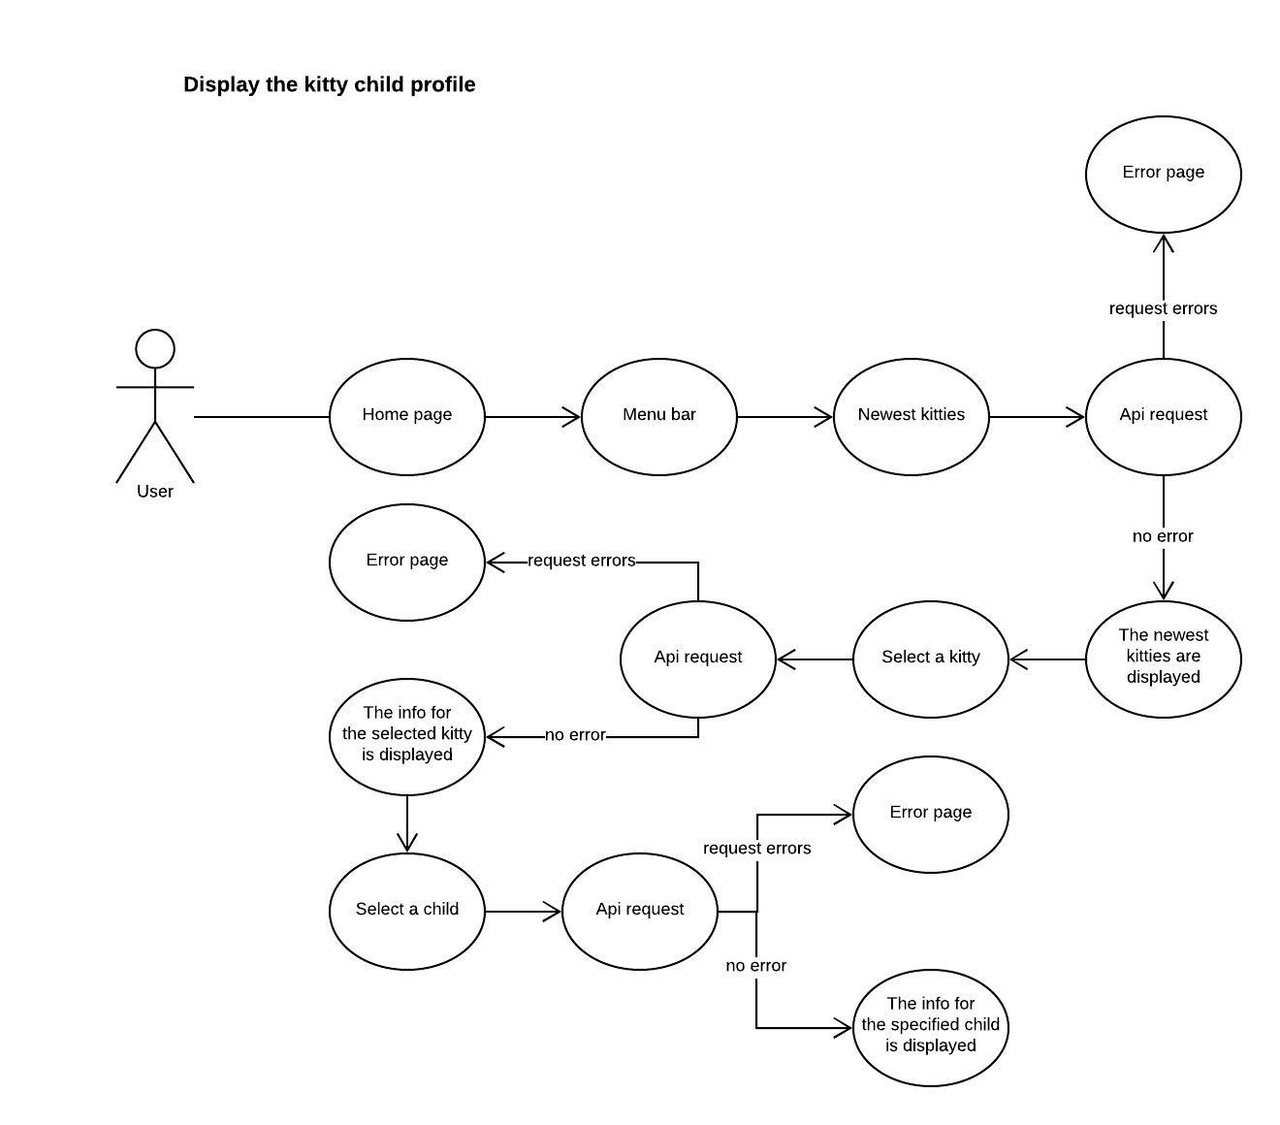
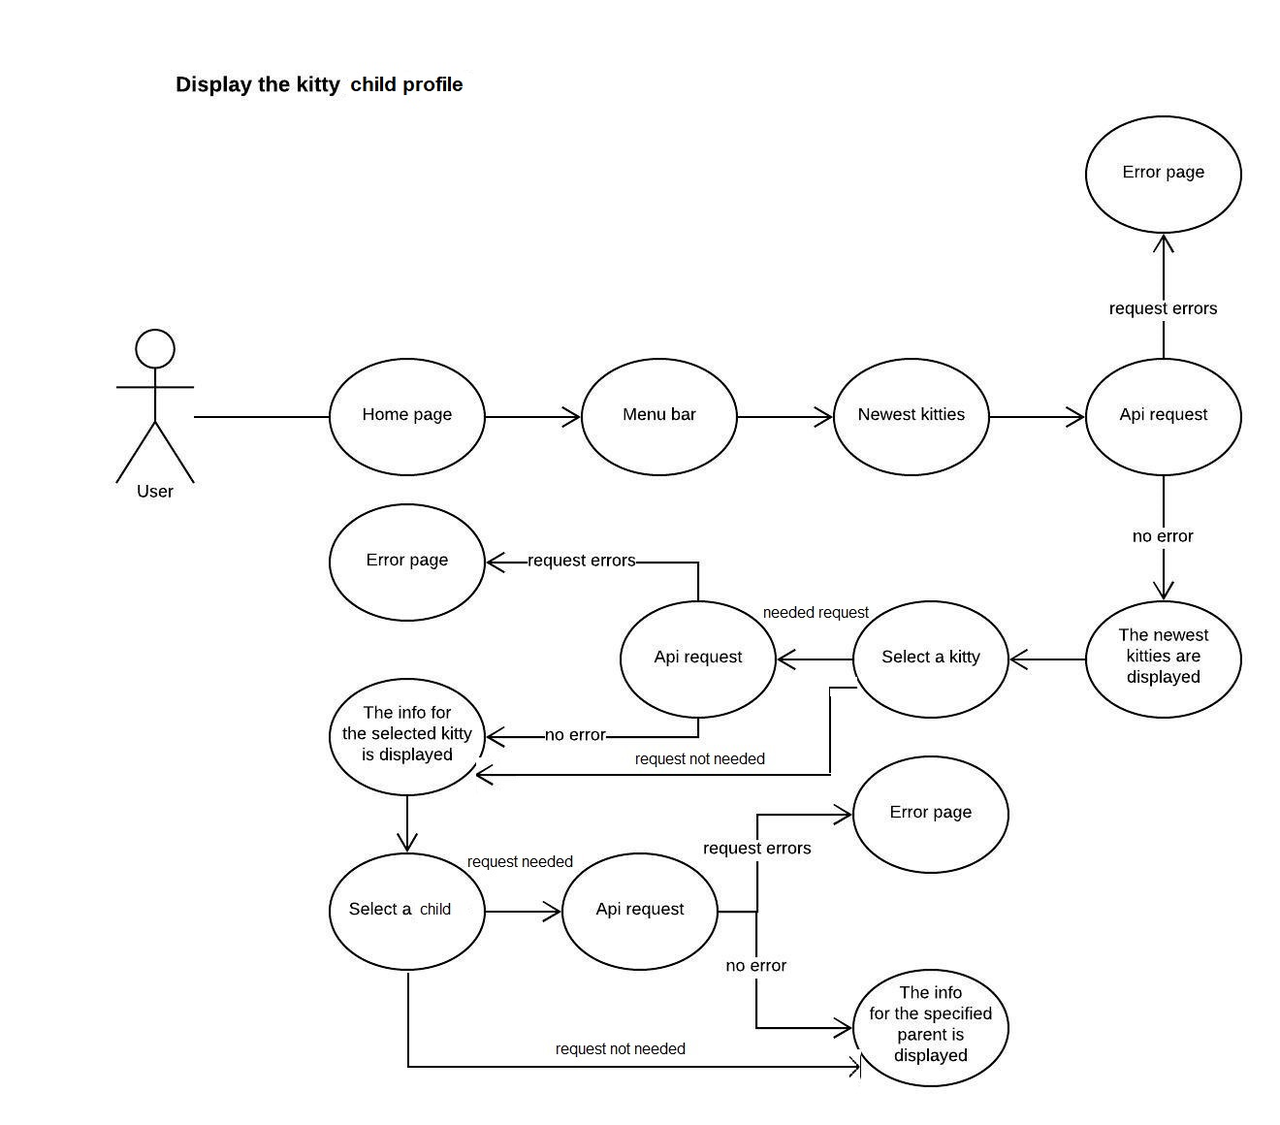
updated diagrams + scholarly update

diff --git a/Doc/index.html b/Doc/index.html
@@ -30,29 +30,34 @@
     <section id="introduction" role="doc-introduction">
         <h2>Introducere</h2>
         <p style="font-size:large;">
-            Aceasta aplicatie web ofera oportunitatea de a putea vedea evolutia pisicilor digitale cum ar fi cei mai importanti proprietari, cele mai noi pisici, profilul unei pisici, profilul unui proprietar si arborele genealogic al unei pisici.
+            Aceasta aplicatie web ofera oportunitatea de a putea vizualiza evolutia pisicilor digitale cum ar fi cei mai importanti proprietari,
+            cele mai noi pisici, profilul unei pisici, profilul unui proprietar si arborele genealogic al unei pisici.
         </p>
     </section>
 
     <section id="user-type">
         <h2>Tipuri de utilizatori</h2>
         <p property="schema:type">
-            <p>Un singur tip utilizator, ce ii include pe toti, deoarece aplicatia nu foloseste sisteme de log-in/sign-in, si nici nu are nevoie de administrator pentru ca nu exista o baza de date.</p>
-            </p>
+            <p>Un singur tip utilizator, ce ii include pe toti, deoarece aplicatia nu foloseste sisteme de log-in/sign-in,
+                si nici nu are o baza de date ce trebuie gestionata.</p>
+        </p>
     </section>
 
- <section id="concepts-on-design">
-        <h2 >Arhitectura generala</h2>
+    <section id="concepts-on-design">
+        <h2 property="schema:blueprint">Arhitectura generala</h2>
         <ul>
             <p style="font-size:large;" property="schema:description">
-            Aplicatia este de tip SPA, si consta in faptul ca pagina curenta este suprascrisa dinamic, nu este incarcata o noua pagina de fiecare data.
+                Structura SPA
             </p>
             <img src="C:\Users\Bandro\Documents\GitHub\e4k\Application arhitecture\SPA.jpeg" height="600" width="800">
-            <p property="schema:description">Avem pagina principala, ce va primi datele ce trebuie afisate in cadrul ei.Ea este compusa din navbar, content si footer.
-            Content este partea paginii ce variaza in functie de navigarile utilizatorului.Pe baza rutelor accesate paginile corespunzatoare vor fi incarcate in pagina pricipala, iar ele la randul lor is vor face requesturile necesare pentru obtinerea de date.
+            <p property="schema:description">Avem pagina principala, ce va primi datele ce trebuie afisate in cadrul ei.Ea
+                este compusa din navbar, content si footer. Content este partea paginii ce variaza in functie de navigarile
+                utilizatorului.Pe baza rutelor accesate paginile corespunzatoare vor fi incarcate in pagina pricipala, iar
+                ele la randul lor is vor face requesturile necesare pentru obtinerea de date.
             </p>
 
-            Aplicatia poate fi impartita in 2 module: Primul este la nivel de interactiune al utilizatorului, iar al doilea la nivel de functionalitate.
+            <p>Aplicatia poate fi impartita in 2 module: Primul este la nivel de interactiune al utilizatorului, iar al doilea
+                la nivel de functionalitate.</p>
             <img src="C:\Users\Bandro\Documents\GitHub\e4k\Application arhitecture\modules.jpeg" height="500" width="700">
             <li style="font-size:large;">
                 Ofera urmatoarele pagini:
@@ -61,8 +66,9 @@
                     <li style="font-size:large;">Profilul proprietarului -> contine informatiile unui proprietar</li>
                     <li style="font-size:large;">Topul celor mai noi pisici </li>
                     <li style="font-size:large;">Topul celor mai buni proprietari, bazat pe numarul de pisici detinute.</li>
-                    <li style="font-size:large;">Home page -> contine  scurta descriere si functionalitatea de a generea rapoarte</li>
-                    <li style="font-size:large;">Pagina de generare rapoarte -> contine un formular pe baza caruia vor fi generate rapoartele</li>
+                    <li style="font-size:large;">Home page -> contine scurta descriere si functionalitatea de a generea rapoarte</li>
+                    <li style="font-size:large;">Pagina de generare rapoarte -> contine un formular pe baza caruia vor fi
+                        generate rapoartele</li>
                 </ul>
             </li>
         </ul>
@@ -73,16 +79,16 @@
         <h2>Tools and technologies</h2>
         <ul>
             <li style="font-size:large;">
-                 Visual Studio Code
+                Visual Studio Code
             </li>
             <li style="font-size:large;">
                 Codul este testat si utilizat in Google Chrome
             </li>
             <li style="font-size:large;">
-                 GitHub
+                GitHub
             </li>
             <li style="font-size:large;">
-                 Trello
+                Trello
             </li>
             <li style="font-size:large;">
                 Technologii folosite: HTML5, CSS, JavaScript
@@ -95,101 +101,188 @@
 
     <section id="intermediate-steps">
         <h2>Etapele intermediare ale dezvoltării proiectului</h2>
-        <p style="font-size:large;" property="schema:description">O etapa a implicat investigarea arhitecturii unei SPA, a modalitatilor de stocare a datelor  la nivel de client si a modalitatilor de manipulare a datelor.</p>
+        <p style="font-size:large;" property="schema:description">O etapa a implicat investigarea structurii SPA, a modalitatilor
+            de stocare a datelor la nivel de client si a modalitatilor de manipulare a datelor.</p>
     </section>
 
 
     <section id="data-modeling">
         <h2>Modelarea de date</h2>
-        1.Date proprii
-       <p property="schema:description">Aplicatia nu are o baza de date in care sa fie stocate datele deoarece informatiile sunt preluate direct de la sursa prin API-uri publice puse la dispozitie.</p>
-       2.Date externe
-       <p property="schema:description">Pentru a folosi informatiile primite prin requesturi api, ele vor fi transformate in obiecte de tip javascript.Fisierele json sunt preluate si mapate la obiecte javascript.</p>
+        <p style="font-weight:600;">1.Date proprii</p>
+        <p property="schema:description">Aplicatia nu are o baza de date in care sa fie stocate datele deoarece informatiile
+            sunt preluate direct de la sursa prin API-uri publice puse la dispozitie.</p>
+        <p style="font-weight:600;">1.Date externe</p>
+        <p property="schema:description">Pentru a folosi informatiile primite prin requesturi api, ele vor fi transformate
+            in obiecte de tip javascript.Fisierele json sunt preluate si mapate la obiecte javascript.</p>
     </section>
 
     <section id="storage">
         <h2>Soluţiile de stocare disponibile la nivel de client</h2>
-        <p property="schema:description" >Toate pisicile/proprietarii pisicilor care au fost cautate/cautati in trecut sunt salvate intr-un array. Inainte ca un request api sa fie facut, listele sunt verificate in functie de id-ul pisicii/proprietarului, iar daca ele exista deja in listele respective, requestul nu va mai avea loc.</p>
+        <p property="schema:description">Elementele(pisica/proprietar) accesate in trecut sunt
+            salvate in liste. Inainte ca un request api sa fie facut, listele sunt verificate in functie de id-ul elementului,
+            iar daca exista deja in listele respective, requestul nu va mai avea loc.</p>
     </section>
 
     <section id="use-cases">
         <h2>Scenarii de utilizare</h2>
-        <h4>1Generate svg/png</h4>
-        <ul>
+        <h4>1.Generate svg/png</h4>
+        <ul property="schema:description">
             <li>Utilizatorul acceseaza home page</li>
-            <li>Ultilizatorul da click pe butonul "Generate svg/png", iar apoi este redirectionat catre pagina ce contine un formular ce trebuie completat pentru a putea genera repoartele dorite </li>
-            <li>Utilizatorul completeaza formularul pana cand toate campurile formularului vor fi valide, daca nu sunt, utilizatorul nu va avea acces la butonul ce genereaza raportul</li>
-            <li>Dupa ce formularul este completat cu date valide, butonul de sub formular este apasat"Generate", iar un raport va fi downloadat in calculatorul utilizatorului.</li>
+            <li>Ultilizatorul da click pe butonul "Generate svg/png", iar apoi este redirectionat catre pagina ce contine
+                un formular ce trebuie completat pentru a putea genera repoartele dorite </li>
+            <li>Utilizatorul completeaza formularul pana cand toate campurile formularului vor fi valide, daca nu sunt, utilizatorul
+                nu va avea acces la butonul ce genereaza raportul</li>
+            <li>Dupa ce formularul este completat cu date valide, butonul de sub formular este apasat"Generate", iar un raport
+                va fi downloadat in calculatorul utilizatorului.</li>
         </ul>
 
-        <img src="C:\Users\Bandro\Documents\GitHub\e4k\Application arhitecture\UML diagrams\Generate svg-png.jpeg" height="600" width="800">
+        <img src="../Application arhitecture/UML diagrams/Generate svg-png.jpeg" height="600" width="800">
 
         <h4>2.Display the top owners</h4>
-        <ul>
+        <ul property="schema:description">
             <li>Utilizatorul acceseaza home page;</li>
-            <li>Utilizatorul acceseaza bara de meniu care se extine si contine 2 pagini pe care le poate accesa: top users and the newest kitties. </li>
+            <li>Utilizatorul acceseaza bara de meniu care se extine si contine 2 pagini pe care le poate accesa: top users
+                and the newest kitties. </li>
             <li>Pagina "top users" este aleasa din meniu, iar un request api este facut pentru a aduce proprietarii pisicilor.</li>
-            <li>Daca nu apar erori, sunt afisati primii 10 proprietari ce detin cele mai multe pisici, daca apar, utilizatorul este redirectat catre pagina "404 not found".</li>
+            <li>Daca nu apar erori, sunt afisati primii 10 proprietari ce detin cele mai multe pisici, daca apar, utilizatorul
+                este redirectat catre pagina "404 not found".</li>
         </ul>
 
-        <img src="C:\Users\Bandro\Documents\GitHub\e4k\Application arhitecture\UML diagrams\top-owners.jpeg" height="600" width="800">
+        <img src="../Application arhitecture/UML diagrams/top-owners.jpeg" height="600" width="800">
 
         <h4>3.Display the newest kitties</h4>
-        <ul>
+        <ul property="schema:description">
             <li>Utilizatorul acceseaza home page;</li>
-            <li>Utilizatorul acceseaza bara de meniu care se extine si contine 2 pagini pe care le poate accesa: top users and the newest kitties. </li>
+            <li>Utilizatorul acceseaza bara de meniu care se extine si contine 2 pagini pe care le poate accesa: top users
+                and the newest kitties. </li>
             <li>Pagina "newest kitties" este aleasa din meniu, iar un request api este facut pentru a aduce pisicile.</li>
-            <li>Daca nu apar erori, sunt afisate ultimele pisici aparute, altfel, utilizatorul este redirectat catre pagina "404 not found".</li>
+            <li>Daca nu apar erori, sunt afisate ultimele pisici aparute, altfel, utilizatorul este redirectat catre pagina
+                "404 not found".</li>
         </ul>
 
-        <img src="C:\Users\Bandro\Documents\GitHub\e4k\Application arhitecture\UML diagrams\newest-kitties.jpeg" height="600" width="800">
+        <img src="../Application arhitecture/UML diagrams/newest-kitties.jpeg" height="600" width="800">
 
         <h4>4.Display the kitty profile</h4>
-        <ul>
+        <ul property="schema:description">
             <li>Utilizatorul acceseaza home page;</li>
-            <li>Utilizatorul acceseaza bara de meniu care se extine si contine 2 pagini pe care le poate accesa: top users and the newest kitties. </li>
+            <li>Utilizatorul acceseaza bara de meniu care se extine si contine 2 pagini pe care le poate accesa: top users
+                and the newest kitties. </li>
             <li>Pagina "newest kitties" este aleasa din meniu, iar un request api este facut pentru a aduce pisicile.</li>
-            <li>Daca nu apar erori, sunt afisate ultimele pisici aparute, altfel, utilizatorul este redirectat catre pagina "404 not found".</li>
-            <li>Dupa ce sunt afisate ultimele pisici aparute utilizatorul acceseaza cardul unei pisici din cele afisate.Se verifica in lista ce contine istoricul pisicilor daca pisica respectiva a mai fost acceseata de utilizator in trecut,daca raspunsul este negativ se face un api request cu id-ul respectiv pisicii, si este adaugata in lista.Daca este pozitiv, informatiile sunt afisate direct din lista respectiva.</li>
-            <li>Daca este nevoie de un request api, daca nu au fost intampinate erori, sunt afisate informatiile pisici, altfel, utilizatorul este redirectat catre pagina "404 not found". </li>
+            <li>Daca nu apar erori, sunt afisate ultimele pisici aparute, altfel, utilizatorul este redirectat catre pagina
+                "404 not found".</li>
+            <li>Dupa ce sunt afisate ultimele pisici aparute utilizatorul acceseaza cardul unei pisici din cele afisate.Se
+                verifica in lista ce contine istoricul pisicilor daca pisica respectiva a mai fost acceseata de utilizator
+                in trecut,daca raspunsul este negativ se face un api request cu id-ul respectiv pisicii, si este adaugata
+                in lista.Daca este pozitiv, informatiile sunt afisate direct din lista respectiva.</li>
+            <li>Daca este nevoie de un request api, daca nu au fost intampinate erori, sunt afisate informatiile pisici,
+                altfel, utilizatorul este redirectat catre pagina "404 not found". </li>
         </ul>
 
-        Profilul pisicii poate fi accesat si din top owners -> select owner -> select kitty of the owner;pe aceleasi principii descrise mai sus.
+        Profilul pisicii poate fi accesat si din top owners -> select owner -> select kitty of the owner;pe aceleasi principii descrise
+        mai sus.
 
-        <img src="C:\Users\Bandro\Documents\GitHub\e4k\Application arhitecture\UML diagrams\kitty-profile.jpeg" height="600" width="800">
+        <img src="../Application arhitecture/UML diagrams/kitty-profile.jpeg" height="600" width="800">
 
         <h4>5.Display the owner profile</h4>
-        <ul>
+        <ul property="schema:description">
             <li>Utilizatorul acceseaza home page;</li>
-            <li>Utilizatorul acceseaza bara de meniu care se extine si contine 2 pagini pe care le poate accesa: top users and the newest kitties. </li>
+            <li>Utilizatorul acceseaza bara de meniu care se extine si contine 2 pagini pe care le poate accesa: top users
+                and the newest kitties. </li>
             <li>Pagina "top users" este aleasa din meniu, iar un request api este facut pentru a aduce proprietarii pisicilor.</li>
-            <li>Daca nu apar erori, sunt afisati primii 10 proprietari ce detin cele mai multe pisici, daca apar, utilizatorul este redirectat catre pagina "404 not found".</li>
-            <li>Dupa ce sunt afisati cei mai buni proprietari utilizatorul acceseaza cardul unui proprietar din cei afisati.Se verifica in lista ce contine istoricul proprietarilor daca proprietarul respectiv a mai fost accesat de utilizator in trecut,daca raspunsul este negativ se face un api request cu id-ul respectivului proprietar, si este adaugat in lista.Daca este pozitiv, informatiile sunt afisate direct din lista respectiva.</li>
-            <li>Daca este nevoie de un request api, daca nu au fost intampinate erori, sunt afisate informatiile proprietarului, altfel, utilizatorul este redirectat catre pagina "404 not found". </li>
+            <li>Daca nu apar erori, sunt afisati primii 10 proprietari ce detin cele mai multe pisici, daca apar, utilizatorul
+                este redirectat catre pagina "404 not found".</li>
+            <li>Dupa ce sunt afisati cei mai buni proprietari utilizatorul acceseaza cardul unui proprietar din cei afisati.Se
+                verifica in lista ce contine istoricul proprietarilor daca proprietarul respectiv a mai fost accesat de utilizator
+                in trecut,daca raspunsul este negativ se face un api request cu id-ul respectivului proprietar, si este adaugat
+                in lista.Daca este pozitiv, informatiile sunt afisate direct din lista respectiva.</li>
+            <li>Daca este nevoie de un request api, daca nu au fost intampinate erori, sunt afisate informatiile proprietarului,
+                altfel, utilizatorul este redirectat catre pagina "404 not found". </li>
         </ul>
 
-        Profilul proprietarului poate fi accesat si din the newest kitties -> select kitty -> select owner; pe aceleasi principii descrise mai sus.
+        Profilul proprietarului poate fi accesat si din the newest kitties -> select kitty -> select owner; pe aceleasi principii
+        descrise mai sus.
 
-        <img src="C:\Users\Bandro\Documents\GitHub\e4k\Application arhitecture\UML diagrams\owner-profile.jpeg" height="600" width="800">
+        <img src="../Application arhitecture/UML diagrams/owner-profile.jpeg" height="600" width="800">
 
         <h4>6.Display the family tree</h4>
-        <ul>
-                <li>Utilizatorul acceseaza home page;</li>
-                <li>Utilizatorul acceseaza bara de meniu care se extine si contine 2 pagini pe care le poate accesa: top users and the newest kitties. </li>
-                <li>Pagina "newest kitties" este aleasa din meniu, iar un request api este facut pentru a aduce pisicile.</li>
-                <li>Daca nu apar erori, sunt afisate ultimele pisici aparute, altfel, utilizatorul este redirectat catre pagina "404 not found".</li>
-                <li>Dupa ce sunt afisate ultimele pisici aparute utilizatorul acceseaza cardul unei pisici din cele afisate.Se verifica in lista ce contine istoricul pisicilor daca pisica respectiva a mai fost acceseata de utilizator in trecut,daca raspunsul este negativ se face un api request cu id-ul respectiv pisicii, si este adaugata in lista.Daca este pozitiv, informatiile sunt afisate direct din lista respectiva.</li>
-                <li>Daca este nevoie de un request api, daca nu au fost intampinate erori, sunt afisate informatiile pisici, altfel, utilizatorul este redirectat catre pagina "404 not found". </li>
-                <li>Pe profilul pisicii accesam butonul "see family tree".Se efectueaza un apel recursiv pana cand nu se mai gasesc parinti pentru o anumita pisica.</li>
-                <li>Daca nu apar erori, arborele este afisat, altfel, utilizatorul este redirectat catre pagina "404 not found".</li>
-            </ul>
-    
-            Profilul pisicii poate fi accesat si din top owners -> select owner -> select kitty of the owner;pe aceleasi principii descrise mai sus.
+        <ul property="schema:description">
+            <li>Utilizatorul acceseaza home page;</li>
+            <li>Utilizatorul acceseaza bara de meniu care se extine si contine 2 pagini pe care le poate accesa: top users
+                and the newest kitties. </li>
+            <li>Pagina "newest kitties" este aleasa din meniu, iar un request api este facut pentru a aduce pisicile.</li>
+            <li>Daca nu apar erori, sunt afisate ultimele pisici aparute, altfel, utilizatorul este redirectat catre pagina
+                "404 not found".</li>
+            <li>Dupa ce sunt afisate ultimele pisici aparute utilizatorul acceseaza cardul unei pisici din cele afisate.Se
+                verifica in lista ce contine istoricul pisicilor daca pisica respectiva a mai fost acceseata de utilizator
+                in trecut,daca raspunsul este negativ se face un api request cu id-ul respectiv pisicii, si este adaugata
+                in lista.Daca este pozitiv, informatiile sunt afisate direct din lista respectiva.</li>
+            <li>Daca este nevoie de un request api, daca nu au fost intampinate erori, sunt afisate informatiile pisici,
+                altfel, utilizatorul este redirectat catre pagina "404 not found". </li>
+            <li>Pe profilul pisicii accesam butonul "see family tree".Se efectueaza un apel recursiv pana cand nu se mai
+                gasesc parinti pentru o anumita pisica.</li>
+            <li>Daca nu apar erori, arborele este afisat, altfel, utilizatorul este redirectat catre pagina "404 not found".</li>
+        </ul>
 
-        <img src="C:\Users\Bandro\Documents\GitHub\e4k\Application arhitecture\UML diagrams\family-tree.jpeg" height="600" width="800">
+        Profilul pisicii poate fi accesat si din top owners -> select owner -> select kitty of the owner;pe aceleasi principii descrise
+        mai sus.
+
+        <img src="../Application arhitecture/UML diagrams/family-tree.jpeg" height="600" width="800">
+
+        <h4>7.Display the kitty child profile</h4>
+        <ul property="schema:description">
+            <li>Utilizatorul acceseaza home page;</li>
+            <li>Utilizatorul acceseaza bara de meniu care se extine si contine 2 pagini pe care le poate accesa: top users
+                and the newest kitties. </li>
+            <li>Pagina "newest kitties" este aleasa din meniu, iar un request api este facut pentru a aduce pisicile.</li>
+            <li>Daca nu apar erori, sunt afisate ultimele pisici aparute, altfel, utilizatorul este redirectat catre pagina
+                "404 not found".</li>
+            <li>Dupa ce sunt afisate ultimele pisici aparute utilizatorul acceseaza cardul unei pisici din cele afisate.Se
+                verifica in lista ce contine istoricul pisicilor daca pisica respectiva a mai fost acceseata de utilizator
+                in trecut,daca raspunsul este negativ se face un api request cu id-ul respectiv pisicii, si este adaugata
+                in lista.Daca este pozitiv, informatiile sunt afisate direct din lista respectiva.</li>
+            <li>Daca este nevoie de un request api, daca nu au fost intampinate erori, sunt afisate informatiile pisici,
+                altfel, utilizatorul este redirectat catre pagina "404 not found". </li>
+            <li>Este selectat un pui al pisicii.Se verifica in lista ce contine istoricul pisicilor daca pisica respectiva
+                a mai fost acceseata de utilizator in trecut,daca raspunsul este negativ se face un api request cu id-ul
+                respectiv pisicii, si este adaugata in lista.Daca este pozitiv, informatiile sunt afisate direct din lista
+                respectiva.
+            </li>
+            <li>Daca este nevoie de un request api, daca nu au fost intampinate erori, sunt afisate informatiile pisici,
+                altfel, utilizatorul este redirectat catre pagina "404 not found". </li>
+        </ul>
+
+        Profilul pisicii poate fi accesat si din top owners -> select owner -> select kitty of the owner;pe aceleasi principii descrise
+        mai sus.
+
+        <img src="../Application arhitecture/UML diagrams/kitty-child.jpeg" height="600" width="800">
+
+        <h4>7.Display the kitty parent profile</h4>
+        <ul property="schema:description">
+            <li>Utilizatorul acceseaza home page;</li>
+            <li>Utilizatorul acceseaza bara de meniu care se extine si contine 2 pagini pe care le poate accesa: top users
+                and the newest kitties. </li>
+            <li>Pagina "newest kitties" este aleasa din meniu, iar un request api este facut pentru a aduce pisicile.</li>
+            <li>Daca nu apar erori, sunt afisate ultimele pisici aparute, altfel, utilizatorul este redirectat catre pagina
+                "404 not found".</li>
+            <li>Dupa ce sunt afisate ultimele pisici aparute utilizatorul acceseaza cardul unei pisici din cele afisate.Se
+                verifica in lista ce contine istoricul pisicilor daca pisica respectiva a mai fost acceseata de utilizator
+                in trecut,daca raspunsul este negativ se face un api request cu id-ul respectiv pisicii, si este adaugata
+                in lista.Daca este pozitiv, informatiile sunt afisate direct din lista respectiva.</li>
+            <li>Daca este nevoie de un request api, daca nu au fost intampinate erori, sunt afisate informatiile pisici,
+                altfel, utilizatorul este redirectat catre pagina "404 not found". </li>
+            <li>Este selectat un parinte al pisicii.Se verifica in lista ce contine istoricul pisicilor daca pisica respectiva
+                a mai fost acceseata de utilizator in trecut,daca raspunsul este negativ se face un api request cu id-ul
+                respectiv pisicii, si este adaugata in lista.Daca este pozitiv, informatiile sunt afisate direct din lista
+                respectiva.
+            </li>
+            <li>Daca este nevoie de un request api, daca nu au fost intampinate erori, sunt afisate informatiile pisici,
+                altfel, utilizatorul este redirectat catre pagina "404 not found". </li>
+        </ul>
+
+        Profilul pisicii poate fi accesat si din top owners -> select owner -> select kitty of the owner;pe aceleasi principii descrise
+        mai sus.
+
+        <img src="../Application arhitecture/UML diagrams/parent-profile.jpeg" height="600" width="800">
     </section>
- 
-
 </body>
-
 </html>
